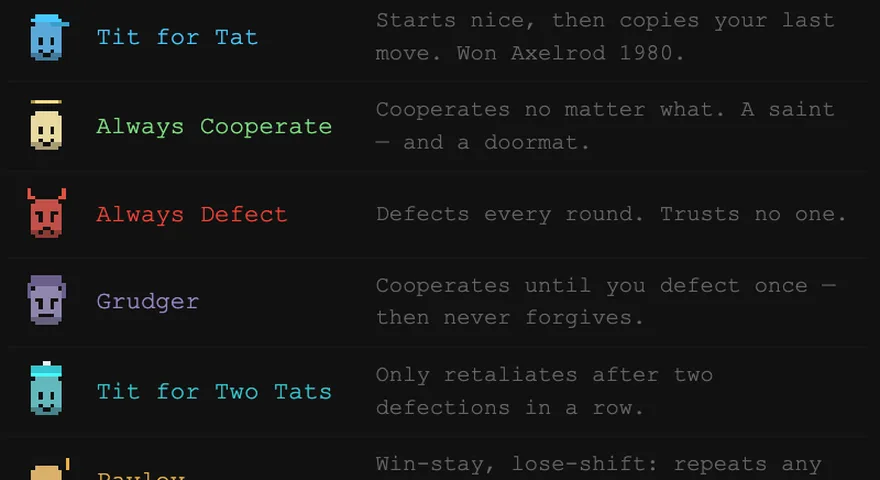
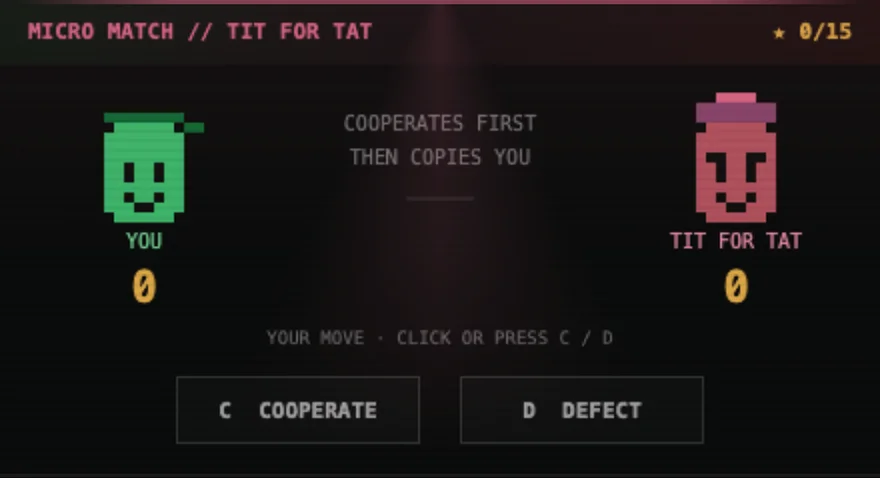
Arcade: original Dilemma art, full Sudoku board, labels off the images; footer hope line

diff --git a/index.html b/index.html
@@ -228,7 +228,7 @@
     .thumb::after { content: ""; position: absolute; left: 0; right: 0; bottom: 0; height: 3px; background: var(--accent); opacity: 0.85; }
     .thumb img { width: 100%; height: 100%; object-fit: cover; transition: transform .4s; }
     .game:hover .thumb img { transform: scale(1.04); }
-    .thumb .exe { position: absolute; left: 10px; top: 10px; padding: 4px 8px; border-radius: 6px; background: rgba(5,6,5,0.72); font: 500 0.68rem/1.2 var(--mono); color: var(--accent); }
+    .game .exe { font: 0.72rem/1.4 var(--mono); color: var(--faint); margin-top: -2px; }
     .game-body { padding: 16px 18px 18px; display: flex; flex-direction: column; gap: 6px; flex: 1; }
     .game-top { display: flex; justify-content: space-between; align-items: baseline; gap: 10px; }
     .game h3 { font-size: 1.08rem; letter-spacing: -0.01em; }
@@ -257,6 +257,7 @@
 
     footer { border-top: 1px solid var(--line); padding: 56px 0 64px; color: var(--faint); font-size: 0.88rem; }
     footer .tag { color: var(--text); font-size: 1.15rem; font-weight: 600; letter-spacing: -0.01em; }
+    footer .hope { margin-top: 8px; color: var(--soft); font-size: 1rem; }
     footer .sub { margin-top: 6px; }
     footer nav { display: flex; flex-wrap: wrap; gap: 8px 22px; margin-top: 26px; }
     footer a { color: var(--muted); text-decoration: none; }
@@ -503,49 +504,55 @@
 
     <div class="games">
       <a class="game" href="/game/dilemma.html?v=b1" style="--accent:#8ea2ff">
-        <div class="thumb"><img src="/assets/arcade/dilemma.webp" alt="" loading="lazy" width="880" height="480"><span class="exe">dilemma_lab.exe</span></div>
+        <div class="thumb"><img src="/assets/arcade/dilemma.webp?v=2" alt="" loading="lazy" width="880" height="478"></div>
         <div class="game-body">
           <div class="game-top"><h3 data-zh="困境实验室">Dilemma Lab</h3><span class="players">1P</span></div>
+          <span class="exe">dilemma_lab.exe</span>
           <p data-zh="用规则卡拼出策略，在经典的阿克塞尔罗德锦标赛里对战「一报还一报」等对手。">Build a strategy from rule cards and enter Axelrod's classic tournament against Tit for Tat and friends.</p>
           <span class="play" data-zh="开始 →">Play →</span>
         </div>
       </a>
       <a class="game" href="/game/rope.html?v=b40" style="--accent:#5ec8ff">
-        <div class="thumb"><img src="/game/thumbs/rope.jpg?v=2" alt="" loading="lazy" width="440" height="240"><span class="exe">tether.exe</span></div>
+        <div class="thumb"><img src="/game/thumbs/rope.jpg?v=2" alt="" loading="lazy" width="440" height="240"></div>
         <div class="game-body">
           <div class="game-top"><h3 data-zh="默契绳">Tether</h3><span class="players" data-zh="2P · 合作">2P · co-op</span></div>
+          <span class="exe">tether.exe</span>
           <p data-zh="两个人，一根绳。互相摆荡、做锚，一起爬上高塔；可联机或同键盘。">Two players, one rope. Swing and anchor each other up a tower, online or on one keyboard.</p>
           <span class="play" data-zh="开始 →">Play →</span>
         </div>
       </a>
       <a class="game" href="/game/labyrinth.html" style="--accent:#3ee07f">
-        <div class="thumb"><img src="/game/thumbs/labyrinth.png?v=1" alt="" loading="lazy" width="440" height="240"><span class="exe">labyrinth.exe</span></div>
+        <div class="thumb"><img src="/game/thumbs/labyrinth.png?v=1" alt="" loading="lazy" width="440" height="240"></div>
         <div class="game-body">
           <div class="game-top"><h3 data-zh="迷宫">Labyrinth</h3><span class="players">1P</span></div>
+          <span class="exe">labyrinth.exe</span>
           <p data-zh="无尽的火把下潜，每次逃脱都通向更大的迷宫。">An endless torch-lit descent, with a bigger maze every time you escape.</p>
           <span class="play" data-zh="开始 →">Play →</span>
         </div>
       </a>
       <a class="game" href="/game/tomato.html" style="--accent:#ff7a59">
-        <div class="thumb"><img src="/game/thumbs/tomato.jpg?v=3" alt="" loading="lazy" width="440" height="240"><span class="exe">grow_a_tomato.exe</span></div>
+        <div class="thumb"><img src="/game/thumbs/tomato.jpg?v=3" alt="" loading="lazy" width="440" height="240"></div>
         <div class="game-body">
           <div class="game-top"><h3 data-zh="种番茄">Grow a Tomato</h3><span class="players">1P</span></div>
+          <span class="exe">grow_a_tomato.exe</span>
           <p data-zh="种出又大又甜的番茄，由真实的植物代谢模型驱动。">Grow the biggest, sweetest tomato, powered by a real plant-metabolism model.</p>
           <span class="play" data-zh="开始 →">Play →</span>
         </div>
       </a>
       <a class="game" href="/game/tomatoswipe.html" style="--accent:#ff5d5d">
-        <div class="thumb"><img src="/game/thumbs/tomatoswipe.png?v=3" alt="" loading="lazy" width="440" height="240"><span class="exe">tomatoswipe.exe</span></div>
+        <div class="thumb"><img src="/game/thumbs/tomatoswipe.png?v=3" alt="" loading="lazy" width="440" height="240"></div>
         <div class="game-body">
           <div class="game-top"><h3 data-zh="扫番茄">Tomatoswipe</h3><span class="players">1P</span></div>
+          <span class="exe">tomatoswipe.exe</span>
           <p data-zh="扫雷，但地雷是番茄。标出每一颗 🍅，一颗都别踩烂。">Minesweeper, but the mines are tomatoes. Flag every 🍅 without squashing one.</p>
           <span class="play" data-zh="开始 →">Play →</span>
         </div>
       </a>
       <a class="game" href="/game/sudoku.html" style="--accent:#36c5d0">
-        <div class="thumb"><img src="/assets/arcade/sudoku.webp" alt="" loading="lazy" width="880" height="480"><span class="exe">sudoku.exe</span></div>
+        <div class="thumb"><img src="/assets/arcade/sudoku.webp?v=2" alt="" loading="lazy" width="880" height="480"></div>
         <div class="game-body">
           <div class="game-top"><h3 data-zh="数独">Sudoku</h3><span class="players">1P</span></div>
+          <span class="exe">sudoku.exe</span>
           <p data-zh="每道题都只有唯一解。支持铅笔标记、提示和一键求解。">Every puzzle has exactly one solution. Pencil marks, hints and a solver.</p>
           <span class="play" data-zh="开始 →">Play →</span>
         </div>
@@ -602,6 +609,7 @@
 <footer>
   <div class="wrap">
     <p class="tag" data-zh="生活是一场游戏——尽情享受其中的每一刻。">Life is a game — so enjoy every piece of it.</p>
+    <p class="hope" data-zh="希望这些小游戏能比我走得更远，继续分享笑容、成长与好奇心。">I hope these little games outlast me, and keep sharing smiles, growth and curiosity.</p>
     <p class="sub" data-zh="别害怕，别着急，别太要面子。">Don't be afraid. Don't rush. Don't let shame hold you back.</p>
     <nav aria-label="Footer">
       <a href="#apps" data-zh="应用">Apps</a>

diff --git a/sw.js b/sw.js
@@ -1,6 +1,6 @@
 /* Life Game service worker — offline app shell.
    Bump CACHE on each release so clients pick up new files. */
-const CACHE = 'lifegame-v59';
+const CACHE = 'lifegame-v60';
 const CORE = [
   '/',
   '/index.html',
